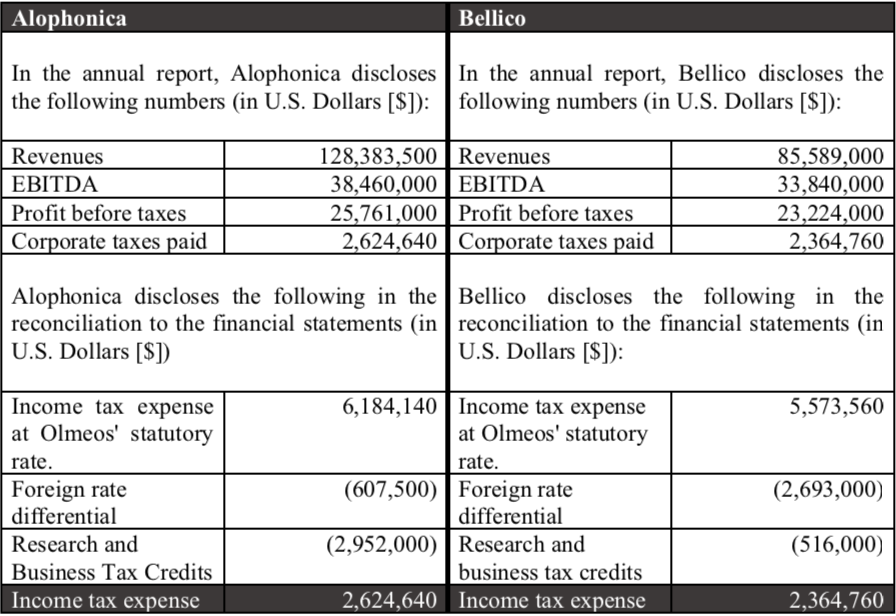
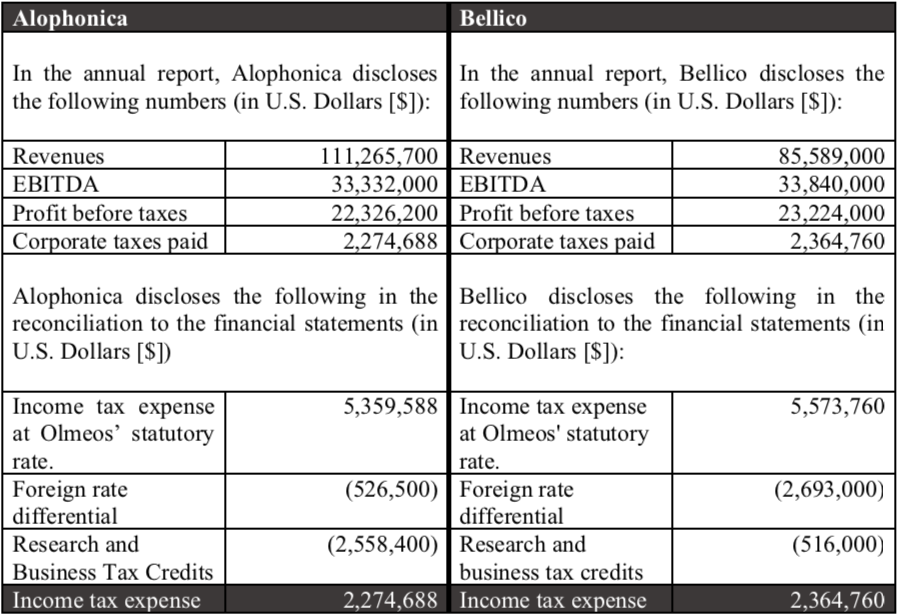
Update Case Materials
also deleted judg order

diff --git a/publictax/templates/publictax/Info_3.html b/publictax/templates/publictax/Info_3.html
@@ -29,45 +29,24 @@
             <td align="center" colspan="2"><h6><b>Bellico</b></h6></td>
         </tr>
     </thead>
-    {% if player.higher == "A" %}
         <tr>
             <td><b>Revenues:</b></td>
-            <td>$94,147,900</td>
+            <td>$111,265,700</td>
             <td><b>Revenues:</b></td>
             <td>$85,589,000</td>
         </tr>
         <tr>
             <td><b>Profit Before Taxes:</b></td>
-            <td>$18,891,400</td>
+            <td>$22,326,200</td>
             <td><b>Profit Before Taxes:</b></td>
             <td>$23,224,000</td>
         </tr>
         <tr>
             <td><b>Corporate Taxes Paid:</b></td>
-            <td>$1,924,736</td>
+            <td>$2,274,688</td>
             <td><b>Corporate Taxes Paid:</b></td>
             <td>$2,364,760</td>
         </tr>
-        {% else %}
-       <tr>
-            <td><b>Revenues:</b></td>
-            <td>$85,589,000</td>
-            <td><b>Revenues:</b></td>
-            <td>$94,147,900</td>
-        </tr>
-        <tr>
-            <td><b>Profit Before Taxes:</b></td>
-            <td>$17,174,000</td>
-            <td><b>Profit Before Taxes:</b></td>
-            <td>$25,546,400</td>
-        </tr>
-        <tr>
-            <td><b>Corporate Taxes Paid:</b></td>
-            <td>$1,749,760</td>
-            <td><b>Corporate Taxes Paid:</b></td>
-            <td>$2,601,236</td>
-        </tr>
-        {% endif %}
     </table><br clear="all">
 </div>
 <div class="instructions">
@@ -121,45 +100,24 @@
             <td align="center" colspan="2"><h6><b>Bellico</b></h6></td>
         </tr>
     </thead>
-        {% if player.higher == "A" %}
         <tr>
             <td><b>Revenues:</b></td>
-            <td>$94,147,900</td>
+            <td>$111,265,700</td>
             <td><b>Revenues:</b></td>
             <td>$85,589,000</td>
         </tr>
         <tr>
             <td><b>Profit Before Taxes:</b></td>
-            <td>$18,891,400</td>
+            <td>$22,326,200</td>
             <td><b>Profit Before Taxes:</b></td>
             <td>$23,224,000</td>
         </tr>
         <tr>
             <td><b>Corporate Taxes Paid:</b></td>
-            <td>$1,924,736</td>
+            <td>$2,274,688</td>
             <td><b>Corporate Taxes Paid:</b></td>
             <td>$2,364,760</td>
         </tr>
-        {% else %}
-       <tr>
-            <td><b>Revenues:</b></td>
-            <td>$85,589,000</td>
-            <td><b>Revenues:</b></td>
-            <td>$94,147,900</td>
-        </tr>
-        <tr>
-            <td><b>Profit Before Taxes:</b></td>
-            <td>$17,174,000</td>
-            <td><b>Profit Before Taxes:</b></td>
-            <td>$25,546,400</td>
-        </tr>
-        <tr>
-            <td><b>Corporate Taxes Paid:</b></td>
-            <td>$1,749,760</td>
-            <td><b>Corporate Taxes Paid:</b></td>
-            <td>$2,601,236</td>
-        </tr>
-        {% endif %}
     </table><br clear="all">
 </div>
 <div class="instructions">
@@ -180,7 +138,6 @@
 <input type="hidden" name="check_beltax" value="" id="check_beltax"/>
 
 
-{% if player.higher == "A" %}
 <div class="instructions">
     <p>Below you can access an excerpt of the financial statements of <b>Alophonica</b> and <b>Bellico</b> by holding the button.</p>
     <div class="container">
@@ -191,18 +148,7 @@
     </div>
 </div>
 </div>
-{% else %}
-<div class="instructions">
-    <p>Below you can access an excerpt of the financial statements of <b>Alophonica</b> and <b>Bellico</b> by holding the button.</p>
-    <div class="container">
-    <button id="image_button" style="color: rgb(255,255,255); background-color: rgb(0,123,255);" type="button" class="btn btn-outline-secondary">Hold to view financial information</button>
-    <p>   </p>
-    <div align="center">
-        <img id="matrix" style="display:none;" align="center" width="90%" src="{% static 'publictax/belhigher.jpg' %}"/>
-    </div>
-</div>
-</div>
-{% endif %}
+
 <br>
 {% next_button %}
 

diff --git a/publictax/templates/publictax/Judgment.html b/publictax/templates/publictax/Judgment.html
@@ -7,7 +7,6 @@
 
 {% block content %}
 
-{% if player.judgorder == "A" %}
 <div class="instructions">
     <p>
         Suppose you have <b>$10,000</b> invested in <b>Alophonica</b>. Would you change your investment based on the information you just read?
@@ -47,50 +46,6 @@
     <input type="hidden" name="check_imarketslider" value="" id="check_imarketslider"/>
 
 </div>
-{% else %}
-    <div align="center" class="instructions">
-
-<div class="instructions">
-    <p>
-        Suppose you have <b>$10,000</b> invested in <b>Bellico</b>. Would you change your investment based on the information you just read?
-        Please drag the slider (or use the left and right arrow keys) to make your choice in percentages.
-    </p>
-
-    {% formfield player.islider2 label=None %}<b id="demo2">0%</b>
-
-    <input type="hidden" name="check_islider2" value="" id="check_islider2"/>
-    <p></p>
-
-    <p>Based on the information you just read, would you consider investing in <b>Bellico</b>?</p>
-    {% formfield player.iinvest2 label=None %}
-
-</div>
-<div class="instructions">
-    <p>
-        Suppose you have <b>$10,000</b> invested in <b>Alophonica</b>. Would you change your investment based on the information you just read?
-        Please drag the slider (or use the left and right arrow keys) to make your choice in percentages.
-    </p>
-
-    {% formfield player.islider label=None %}<b id="demo1">0%</b>
-
-    <input type="hidden" name="check_islider" value="" id="check_islider"/>
-    <p></p>
-
-    <p>Based on the information you just read, would you consider investing in <b>Alophonica</b>?</p>
-    {% formfield player.iinvest label=None %}
-
-</div>
-
-    <div class="instructions">
-    <p>
-        Suppose you have <b>$10,000</b> invested in the stock market. Would you change your overall stock market investment on the information in this case?
-        Please drag the slider (or use the left and right arrow keys) to make your choice in percentages.
-    </p>
-    {% formfield player.imarketslider label=None %}<b id="demo3">0%</b>
-    <input type="hidden" name="check_imarketslider" value="" id="check_imarketslider"/>
-    </div>
-
-{% endif %}
 
 {% next_button %}
 
